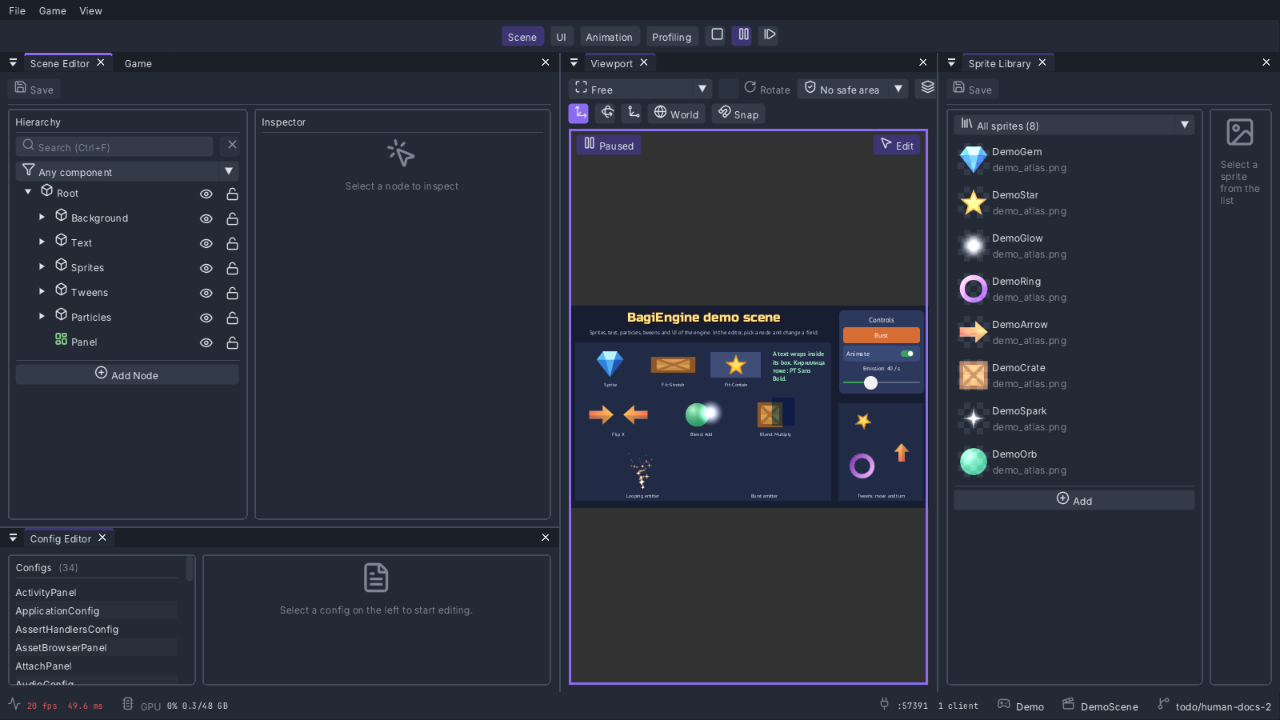
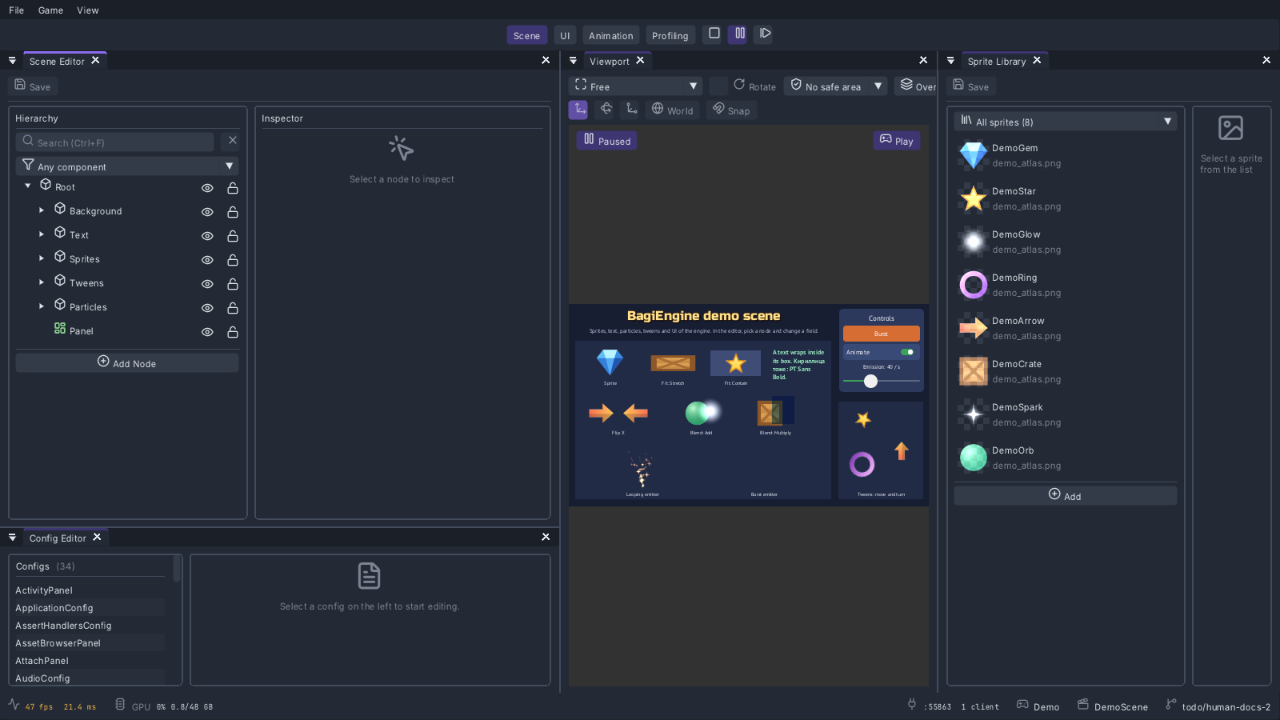
WP 5/6: the page the editor, its Console picture, the pictures taken from a clean editor folder

diff --git a/tools/docs/guide_shots.py b/tools/docs/guide_shots.py
@@ -13,6 +13,7 @@ from __future__ import annotations
 
 import argparse
 import json
+import os
 import re
 import shutil
 import sys
@@ -28,6 +29,9 @@ from bagi_session import GameSession, SessionError  # noqa: E402
 from game_process import preset_executable  # noqa: E402
 
 MANIFEST = REPOSITORY_ROOT / "tools" / "docs" / "guide_shots.json"
+# The editor reads its layout and preferences from the per-user folder this variable names: a picture of it must not depend on, or write into, the
+# folder of whoever takes it
+EDITOR_DIRECTORY_VARIABLE = "BAGI_EDITOR_DIR"
 DEFAULT_OUT = REPOSITORY_ROOT / "docs" / "guide" / "img"
 DEFAULT_MAC_PRESET = "macos-debug"
 DEFAULT_MAX_SIZE = 640
@@ -111,6 +115,8 @@ def take(row: dict[str, Any], exe: Path, out: Path) -> Path:
     with tempfile.TemporaryDirectory(prefix="bagi-guide-shot-") as scratch:
         overlay = copy_overlay(row, Path(scratch) / "content") if "contentOverlay" in row else None
         session = GameSession(client_name="guide_shots")
+        previous_editor_directory = os.environ.get(EDITOR_DIRECTORY_VARIABLE)
+        os.environ[EDITOR_DIRECTORY_VARIABLE] = str(Path(scratch) / "editor")
         try:
             description = session.launch(
                 exe=str(exe),
@@ -126,6 +132,10 @@ def take(row: dict[str, Any], exe: Path, out: Path) -> Path:
             png, _ = session.screenshot(row.get("maxSize", DEFAULT_MAX_SIZE))
         finally:
             session.close()
+            if previous_editor_directory is None:
+                os.environ.pop(EDITOR_DIRECTORY_VARIABLE, None)
+            else:
+                os.environ[EDITOR_DIRECTORY_VARIABLE] = previous_editor_directory
     target = out / f"{row['name']}.png"
     out.mkdir(parents=True, exist_ok=True)
     target.write_bytes(png)

diff --git a/docs/guide/editor.md b/docs/guide/editor.md
@@ -1,0 +1,99 @@
+# The editor
+
+[Run the demo](run-the-demo.md) opened the editor, changed one field and saved. This page goes through the rest of it: what each panel is for, one small task that uses four of them, the keys worth knowing, what a change does to the files, and how the editor differs in a browser. It takes about fifteen minutes.
+
+Start, `--editor`, `Ctrl+Shift+E`, the hierarchy, the inspector, Save and `--content-overlay` are on that page and are not repeated here. Start the editor the way its section 6 does, with an overlay, so that nothing you do on this page touches the repository:
+
+<!-- command -->
+```bash
+build/macos-debug/bin/BagiDemo --editor --content-overlay=$HOME/bagi-scratch
+```
+
+## 1. What the editor is
+
+The editor is the same engine with panels drawn over the scene. A panel is a window: drag its tab to dock it in another place or to pull it out as a floating window. The engine remembers the layout between runs, in a folder of your own (not in the repository), so what you move stays moved.
+
+At the top of the window, next to the menus, four buttons switch **workspaces**: `Scene`, `UI`, `Animation` and `Profiling`. A workspace is a ready arrangement of panels, so you do not have to dock them by hand. `Scene`, the one you start in, holds the Scene Editor, the Config Editor, the Viewport and the Sprite Library. The `View` menu lists every panel, and `View > Reset to Defaults` brings the ready arrangement of the workspace back. `View > Save Layout As...` keeps your own under a name.
+
+## 2. A tour of the panels
+
+| Panel | Where | What it is for | What it writes |
+|-------|-------|----------------|----------------|
+| **Scene Editor** | left, with the hierarchy and the inspector | the tree of the scene and the components of the picked node | the `<scene>` of `SceneConfig.xml`, on Save |
+| **Viewport** | middle | the scene as the game draws it; its own toolbar for the size of the picture, the move, rotate and scale handles and where a click goes | nothing |
+| **Config Editor** | bottom left | any config the engine has loaded, as typed fields, or as its XML tree when the engine has no type for it | that config's own file, on Save |
+| **Sprite Library** | right | the sprites of the game: name, texture, the rectangle of the texture each one uses | the game's sprite library, on Save |
+| **Asset Browser** | hidden; docked in the `UI` and `Animation` workspaces | the content files as folders and a grid of pictures, with a search and a filter by kind | nothing; it can also rename and delete a file |
+| **Console** | hidden; `Ctrl+Shift+L` | the log, with filters, and a command line | nothing |
+| **Game** | hidden; `Ctrl+Shift+G` | the state, the actions and the fields that the running game offers | nothing |
+
+The Asset Browser is also the place to drag a file onto the viewport: that adds a node made from it. The Game panel shows what a game marks for it (`BE_REFLECT_FIELD`, `BE_FUNCTION`), and the demo marks nothing, so there it says `Demo (not controllable)` with a Reset button and an empty list of fields.
+
+There are more windows, and each is one menu item away: the Profiler (`Ctrl+Shift+P`), Pool Strings (the engine's table of names), File changes, Field Help (the texts of the tooltips), Activity (who is talking to the control API), Generate (pictures and sounds from an art service), Export, Attach (to another running game) and Preferences (`Ctrl+,`). Each has a `CLAUDE.md` next to its code, in `src/Widgets/`, for the exact rules.
+
+## 3. A small task: make the fountain stronger
+
+The demo's fountain of sparks makes 40 sparks a second. You will raise it, look at what the engine says, find the sprite it draws, and save.
+
+1. **Find the node.** In the hierarchy open `Root`, then `Particles`, and click `Fountain`. The inspector shows two components: `TransformComponent` and `ParticleEmitterComponent`.
+2. **Open the emitter.** Click the arrow of `ParticleEmitterComponent`, then the arrow of `effect`. The fields of the effect are rows: `looping`, `rate` (40), `burstCount`, `maxParticles` and so on. Scroll down: `spriteId` says which sprite each spark is.
+3. **Change a number.** Double-click `rate`, type `120` and press Enter. The Scene Editor shows `(unsaved changes)` next to Save, and look at the panel in the scene: its slider now reads `Emission: 120 /s`. The slider did not change by itself. The demo's panel reads the emitter every frame and shows what it finds, which is the point of [the page on input actions](input-actions.md): a widget holds no state of its own.
+4. **See it move.** The viewport shows a `Paused` mark: the game is held. The pause button of the toolbar (`F6`) lets it run and `F7` steps one frame while it is held; the fountain at the bottom of the scene should spray more. (Not observed: the headless run that this page was written from holds the clock itself, so these two buttons and the thicker spray are read from their tooltips and the code. `Play` and `Stop` change a state of the toolbar only: the editor's game already runs, and the button's tooltip says so.)
+5. **Find the sprite.** In the Sprite Library click `DemoSpark`, the sprite of step 2. The form beside the list shows its texture, a preview of the texture with the sprite's rectangle in green, and the numbers of that rectangle. This panel and the inspector are two views of two files: the inspector edits the scene, the library edits what a sprite id means.
+6. **Open the Console.** Press `Ctrl+Shift+L` (`Cmd+Shift+L` on a Mac). A window with the log opens over the editor. The four toggles at its top filter by level, the combo by category, and the box by text: type `Control` and two lines are left, the control port and the client that connected. At the foot is a command line that runs a method of the control API: type `ping` and Enter, then `status`.
+
+   ![The Console over the editor: two log lines are left by the filter Control, and the command line has answered ping and status](img/editor-console.png)
+
+   The same Console is how you read what the engine did: the lines of the log have the file and the line of the code that wrote them, on the right.
+7. **Ask what is unsaved.** Type `editor_state` in the command line. It answers `"anyDirty":true`, and a row for the scene says `"dirty":true`: that row is the same flag as the words next to Save.
+8. **Save.** Press `Ctrl+S` (`Cmd+S` on a Mac), or click Save. A note `Scene saved` appears, and the Console has a line `Saved config 'SceneConfig' to ...`, with the path of the file it wrote, which is in your overlay. Type `editor_state` once more: `"anyDirty":false`.
+9. **Check the file.** `$HOME/bagi-scratch/config/SceneConfig.xml` has `rate="120"` on the fountain's effect, and `git status` shows nothing. Delete the folder to start from the demo again.
+
+When it is done: the Hierarchy, the Inspector, the Sprite Library and the Console each showed one thing of the same node, and only the Scene Editor wrote a file.
+
+## 4. Commands and hotkeys
+
+Everything the editor can do is a **command**: a menu item, a button, a key and an entry of the palette all send the same one. Press `Ctrl+P` (`Cmd+P` on a Mac) for the **command palette**: type a few letters of what you want, Enter runs it, and the chord of each command is written beside it. `Ctrl+,` opens Preferences, whose second tab lists every hotkey and lets you rebind it.
+
+The chords worth knowing:
+
+| Chord | Does |
+|-------|------|
+| `Ctrl+Shift+E` | switch the game and the editor ([Run the demo](run-the-demo.md), section 2) |
+| `Ctrl+S` | save the scene |
+| `Ctrl+Shift+S` | save the config open in the Config Editor |
+| `Ctrl+P` | the command palette |
+| `Ctrl+Shift+L`, `Ctrl+Shift+G`, `Ctrl+Shift+P` | the Console, the Game panel, the Profiler |
+| `F6`, `F7` | pause or resume the game, step one frame |
+| `F8` | where a click on the viewport goes: `Edit` keeps it for the editor, `Play` sends it to the game |
+| `Alt+Left`, `Alt+Right` | the previous and the next node you selected |
+
+On a Mac, `Ctrl` in this table is `Cmd`, except in `Ctrl+Shift+E` and `Ctrl+Shift+P`, which are the real Ctrl key. A hotkey needs `Ctrl` or `Alt`, or is an F key, so typing in a text field never runs a command. In the hierarchy, `F2` renames the node, `Delete` deletes it, `Ctrl+D` duplicates it and `Ctrl+F` goes to the search; in the viewport (Edit mode) `W`, `E` and `R` pick the move, rotate and scale handles and `F` frames the selection.
+
+The `Edit` and `Play` of the viewport matter when you click on it: in `Edit` a click picks the node under it, in `Play` the game gets the click as a window would give it (for example the demo's `Burst` button). Hold `Alt` to use the other one for a single click.
+
+## 5. What a change does
+
+- **A scene change** (the inspector, the hierarchy, the handles of the viewport) is live at once and is **not on disk** until Save. Save writes the whole scene again in its normalised form ([Run the demo](run-the-demo.md), section 5).
+- **A config change** in the Config Editor is kept in the panel until its Save. Save writes only what you changed into the loaded document, so the comments and the values you did not touch stay as they were. If the file changes on disk under it, the panel drops your unsaved edits and says `changed on disk`; [Config and reflection](config-and-reflection.md) tells how the engine reloads a config.
+- **A file changed by another program** (your text editor, git) is noticed by the engine on a desktop, which watches the content folders. The File changes window (`View` menu) has a Rescan button: it lists the files that differ from what the engine knows, and Apply all takes them.
+- **The Sprite Library** has a Save of its own.
+- The three Saves (the scene, the open config, the library) each have a flag of their own, and `editor_state` lists them.
+
+## 6. In a browser
+
+The same editor runs in a web page when the game is built for it with the editor (the next page, the web build, tells how the page is made; a build of the page is what you need, and there is no install). The live demo that the [README](../../README.md) links is the game, and the editor is a build of its own.
+
+What is different, from the docs (`src/Widgets/EditorLayout/CLAUDE.md`, "The editor in a browser"). Not observed: the browser editor was not run for this page; each line below is read from the code and its notes.
+
+- **A page opens once with a notice**: a window says that nothing you change is kept, and a reload brings back the content the page came with.
+- **Where an edit lives.** The page has a file system in memory. Save writes into it, so the scene is saved for as long as the page lives; the editor's own layout and preferences are kept there too. A reload empties it. Nothing in the docs offers a download, so to keep a change in a browser you copy it out by hand.
+- **Hidden:** Generate, Export, File changes and the Profiler's Chrome trace, because each needs a program or a folder that a page does not have. Attach is hidden as well: a page opens no link to another program. Preferences has no "Open files with".
+- **The keys.** `Ctrl` or `Cmd` with `S`, `P`, `,` and the other chords of the table above work, and the page stops the browser's own reaction to them (so `Cmd+S` does not open the browser's save dialog). `Ctrl+C`, `V` and `X` are left to the browser, because it allows the clipboard only after a gesture of yours. `Ctrl+W`, `T`, `N` and `Q` belong to the browser and cannot be hotkeys. On a Mac, `Cmd` is the editor's `Ctrl`.
+- **File > Quit** ends the game and leaves the page stopped until you reload it. A phone is not a target.
+
+## What you did
+
+You looked at what each panel is for, changed a number in one panel and found the effect in two others, saved, and asked the engine what was unsaved. You know where the chords are and what a change does before Save and after it.
+
+Next: The web build builds the demo for a browser and serves it on your machine.

diff --git a/docs/guide/README.md b/docs/guide/README.md
@@ -21,16 +21,17 @@ A guide for a person who is new to the engine. Each page is one task, done from 
 6. [Config and reflection](config-and-reflection.md): follow one field from its C++ class to the file, the inspector and the control API, write a config file of your own, and change one while the game runs.
 7. [Input actions](input-actions.md): make a click send a named action and an emitter listen for it with no C++, then read the C++ that listens and press the pad from a Python script.
 8. [A save](save-game.md): give a game a state class, a schema and a slot on disk, read it back into a temporary, and see what a refused file does.
+9. [The editor](editor.md): what each panel is for, one small task across four of them, the hotkeys, what a change does to the files, and how the editor differs in a browser.
 
-Planned, not written yet: the editor in depth, the web build, the control API from Python, a test, working with agents, the C++ rules explained, where the data lives.
+Planned, not written yet: the web build, the control API from Python, a test, working with agents, the C++ rules explained, where the data lives.
 
 ## Where to start
 
-**You make scenes and screens (a designer, an artist).** Start with "Run the demo", then "Your first scene", "A UI screen", "A prefab and its overrides", "A tween and a timeline", "Config and reflection" and "Input actions". Planned next: the editor in depth.
+**You make scenes and screens (a designer, an artist).** Start with "Run the demo", then "Your first scene", "A UI screen", "A prefab and its overrides", "A tween and a timeline", "Config and reflection", "Input actions" and "The editor". Planned next: the web build.
 
 **You write Python (tools, bots, tests).** "Run the demo" shows the game you will drive. Planned next: the control API from Python, a test, and where the data lives.
 
-**You work with coding agents.** "Run the demo", "Your first scene", "A UI screen", "A prefab and its overrides", "A tween and a timeline", "Config and reflection", "Input actions" and "A save" show what an agent changes when it edits content or adds a component. Planned next: working with agents, and the C++ rules explained.
+**You work with coding agents.** "Run the demo", "Your first scene", "A UI screen", "A prefab and its overrides", "A tween and a timeline", "Config and reflection", "Input actions", "A save" and "The editor" show what an agent changes when it edits content or adds a component. Planned next: working with agents, and the C++ rules explained.
 
 ## A game of your own
 

diff --git a/tools/docs/CLAUDE.md b/tools/docs/CLAUDE.md
@@ -44,4 +44,4 @@ No capture mechanism of its own: it starts a built game through `GameSession` (`
 
 `docs/guide/examples/<page>/` holds the real content files a page needs (a scene, a screen, strings, themes, a node file) in a game's layout, `config/` and `assets/`: the single copy, which the page excerpts (`<!-- source: ... -->`) and the rows copy (`contentOverlay`). `python3 tools/migrate/migrate.py --root .` finds its content files, so a content migration moves them with the demo's; `GuideExamplesTest` (`tests/BECore/`) loads them, runs the screen on the size matrix and checks that the prefab example gives its three instances with their own overrides. `DemoGuideTweenTest` (`tools/demo/tests/`) loads the tween example and pins the places of its movers that the page states; `DemoGuideActionTest` loads the input example and pins that the pad's action and the emitter's `burstAction` meet and that a press outside its ellipse does not burst; the C++ the pages show is excerpted from real files that tests run: the demo's own component, or a `tests/BECore/Guide<Topic>Example*` file the page owns (`GuideTweenExampleTest` pins the values of the sequence timeline at its times, `GuideConfigExampleTest` the config read, its warnings, the reload and the subscriber, `GuideSaveExampleTest` the save round trip, the fix-up of an older file and the refusals), never from an uncompiled block and never from C++ under `docs/guide/examples/`.
 
-Exit 0 done, 1 an error (a bad row, a failed call), 77 an executable is missing (nothing is written then). It writes only into `--out`. The pictures are of the headless software render of the machine that took them; the editor's frame-rate readout differs between runs, so a retake is a different file even when nothing changed.
+The editor reads and writes its layout and preferences in a per-user folder, so each picture runs with `BAGI_EDITOR_DIR` set to an empty temporary one: a picture does not depend on who takes it, and nothing lands in the person's own folder. Exit 0 done, 1 an error (a bad row, a failed call), 77 an executable is missing (nothing is written then). It writes only into `--out`. The pictures are of the headless software render of the machine that took them; the editor's frame-rate readout differs between runs, so a retake is a different file even when nothing changed.

diff --git a/docs/guide/save-game.md b/docs/guide/save-game.md
@@ -152,4 +152,4 @@ You gave a game a state class, a schema and two calls, saw that a file is a slot
 
 The engine keeps one slot of its own in a game's folder, `audio`, with the player's sound levels; a game does not name a slot so. The exact rules of the service are in `src/Modules/BECore/Save/CLAUDE.md`, written for coding agents.
 
-Next: The editor, where each panel lives and what it is for (planned).
+Next: [The editor](editor.md), where each panel lives and what it is for.
